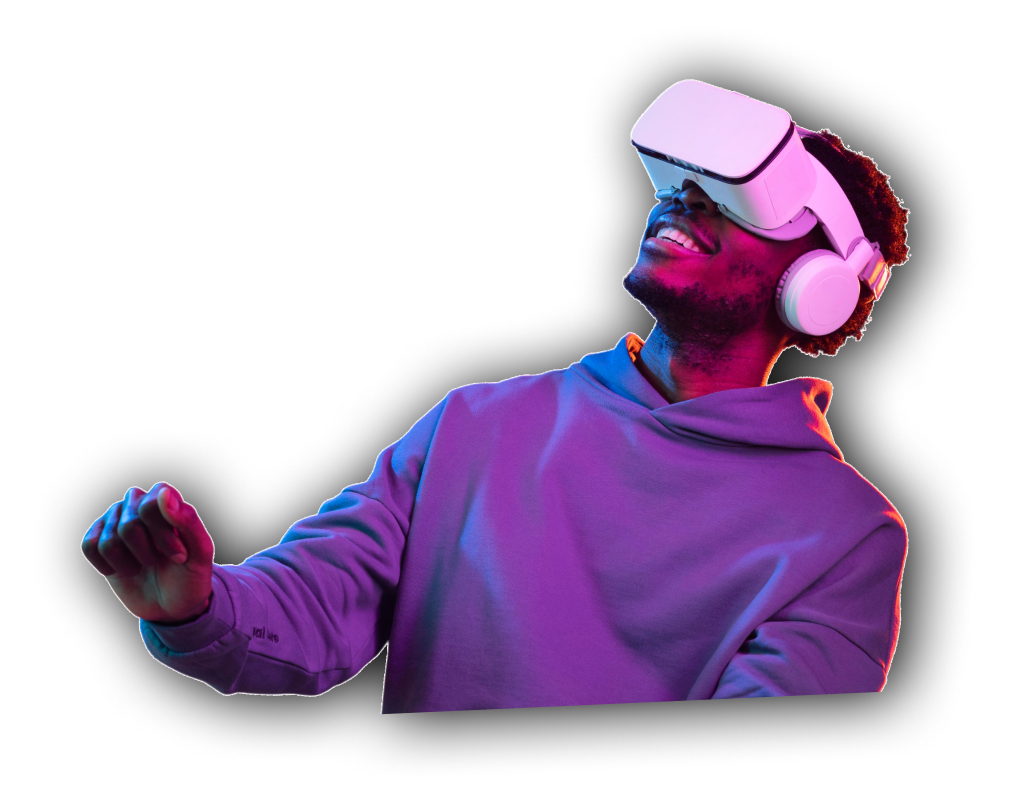
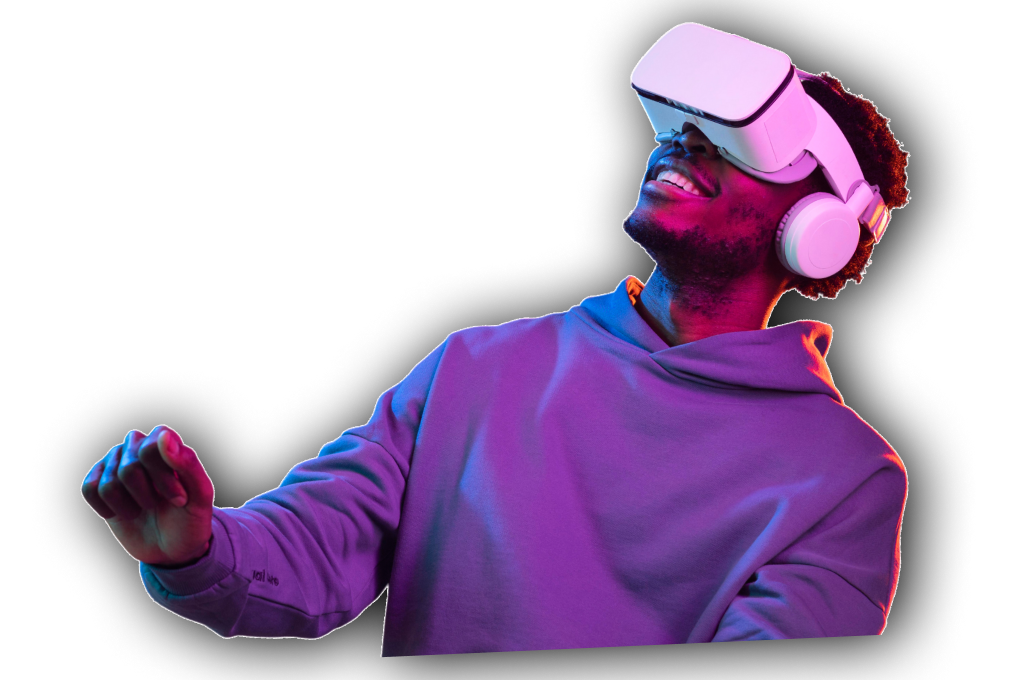
adjustments

Changed region(s): [[0.0613, 0.0, 0.9496, 1.0], [0.4901, 0.4632, 0.5514, 0.4941], [0.5208, 0.5559, 0.5514, 0.5868]]

diff --git a/styles/components/_metaverse-effect-section.scss b/styles/components/_metaverse-effect-section.scss
@@ -1,5 +1,12 @@
 .metaverse-effect-section {
-    margin-top: 40px;
+    margin-top: 50px;
+
+    @include tablet(){
+        margin-top: 75px;
+    }
+    @include tablet(){
+        margin-top: 150px;
+    }
 
     .heading {
         background: linear-gradient(to right, #69EACB, #EACCF8, #6654F1);

diff --git a/styles/components/_hero-section.scss b/styles/components/_hero-section.scss
@@ -127,6 +127,7 @@
 
   &__image {
     width: 100%;
+    overflow: hidden;
 
     img {
       width: 100%;
@@ -137,7 +138,7 @@
 
       @include desktop() {
         transform: scale(1.001);
-        margin-top: -80px;
+        margin-top: -20px;
       }
 
     }
